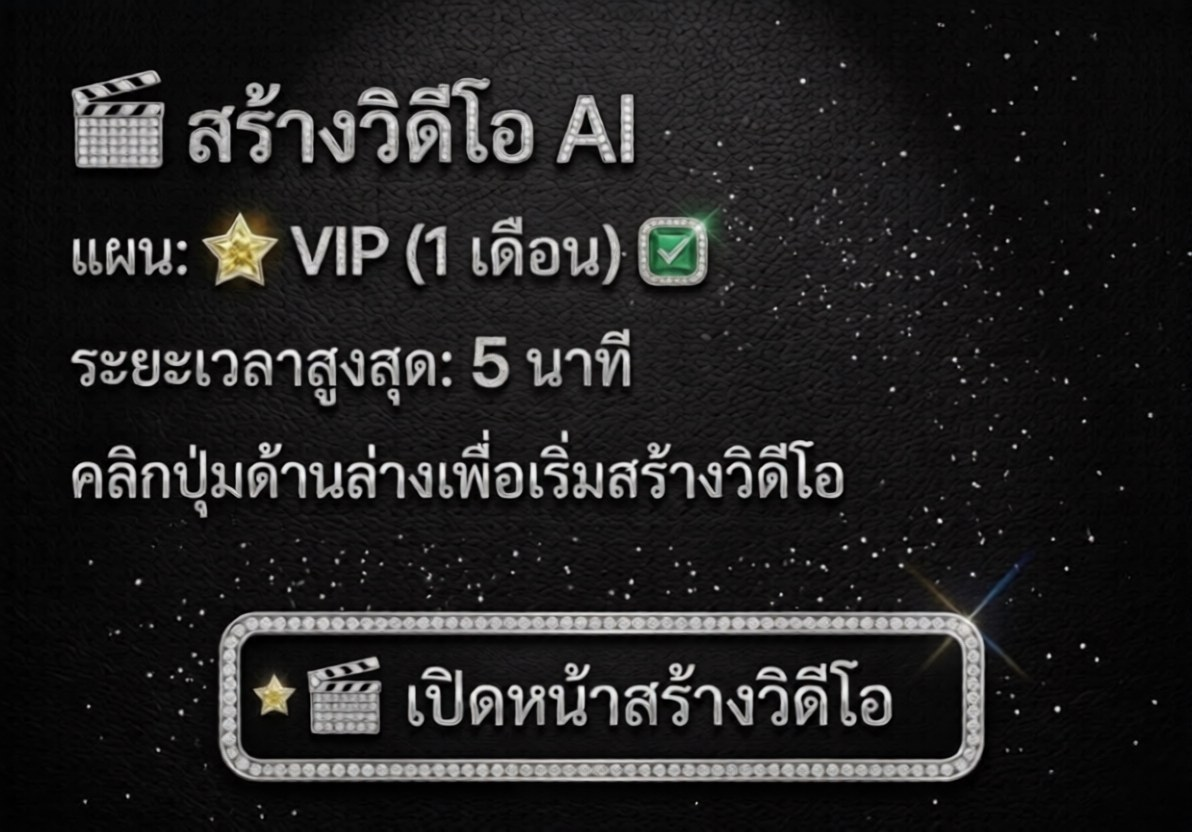
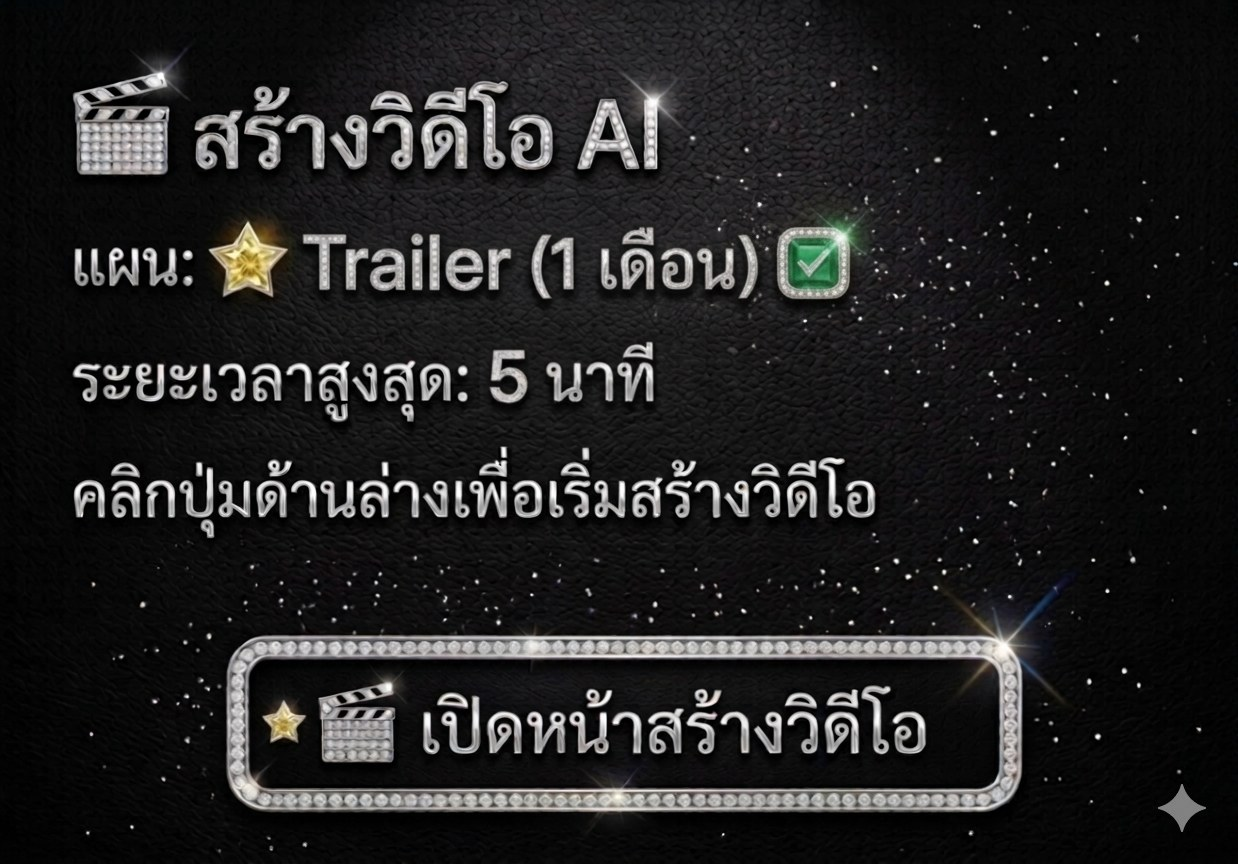
feat: use custom images for all rich messages by plan/state
- richmessage-locked.jpg: video locked screen (l) with subscribe CTA
- richmessage-video-trailer.jpg: correct trailer design (t) - Trailer 1mo / 5min
- richmessage-buy-trailer.jpg: payment info card for trailer (bt)
- richmessage-buy-vip.jpg: payment info card for VIP (bv)
- lockedMessage() now uses hero image instead of text
- handlePostback pay: shows buy image + QR code

diff --git a/server.js b/server.js
@@ -366,7 +366,7 @@ async function handleCreateVideo(event, userId) {
   if (!user || !user.isActive) {
     return client.replyMessage({
       replyToken: event.replyToken,
-      messages: [lockedMessage('สร้างวิดีโอ')],
+      messages: [lockedMessage()],
     });
   }
 
@@ -476,32 +476,28 @@ async function handlePostback(event) {
   const userId = event.source.userId;
 
   if (action === 'pay') {
-    const price = plan === 'trailer' ? '199' : '1,999';
     const planName = plan === 'trailer' ? 'Trailer (1 เดือน)' : 'VIP (1 ปี)';
     const qrUrl = plan === 'trailer'
       ? `${process.env.BASE_URL}/public/qr-trailer.png`
       : `${process.env.BASE_URL}/public/qr-vip.png`;
+    const buyImgUrl = plan === 'trailer'
+      ? `${process.env.BASE_URL}/public/richmessage-buy-trailer.jpg`
+      : `${process.env.BASE_URL}/public/richmessage-buy-vip.jpg`;
 
     return client.replyMessage({
       replyToken: event.replyToken,
       messages: [
         {
           type: 'flex',
-          altText: `ชำระเงิน ${planName}`,
+          altText: `ข้อมูลการชำระเงิน ${planName}`,
           contents: {
             type: 'bubble',
-            body: {
-              type: 'box', layout: 'vertical', spacing: 'md',
-              contents: [
-                { type: 'text', text: '💳 ข้อมูลการชำระเงิน', weight: 'bold', size: 'lg' },
-                { type: 'separator' },
-                { type: 'box', layout: 'horizontal', margin: 'md', contents: [{ type: 'text', text: 'แผน:', size: 'sm', color: '#666666', flex: 2 }, { type: 'text', text: planName, size: 'sm', weight: 'bold', flex: 3 }] },
-                { type: 'box', layout: 'horizontal', contents: [{ type: 'text', text: 'ยอดชำระ:', size: 'sm', color: '#666666', flex: 2 }, { type: 'text', text: `${price} บาท`, size: 'sm', weight: 'bold', color: '#E74C3C', flex: 3 }] },
-                { type: 'box', layout: 'horizontal', contents: [{ type: 'text', text: 'วิธีชำระ:', size: 'sm', color: '#666666', flex: 2 }, { type: 'text', text: 'PromptPay / QR', size: 'sm', flex: 3 }] },
-                { type: 'separator', margin: 'md' },
-                { type: 'text', text: '📌 สแกน QR ด้านล่างเพื่อชำระเงิน', size: 'sm', color: '#666666', wrap: true, margin: 'md' },
-                { type: 'text', text: 'หลังชำระกรุณาส่งสลิปมาในแชทนี้', size: 'sm', color: '#E74C3C', wrap: true },
-              ],
+            hero: {
+              type: 'image',
+              url: buyImgUrl,
+              size: 'full',
+              aspectRatio: '4:3',
+              aspectMode: 'cover',
             },
           },
         },
@@ -603,22 +599,23 @@ function planLabel(plan) {
   return plan === 'vip' ? '⭐ VIP (1 ปี)' : '🎬 Trailer (1 เดือน)';
 }
 
-function lockedMessage(feature) {
+function lockedMessage() {
+  const imgUrl = `${process.env.BASE_URL}/public/richmessage-locked.jpg`;
   return {
     type: 'flex',
-    altText: `${feature}ถูกล็อก — กรุณาสมัครสมาชิก`,
+    altText: 'สร้างวิดีโอถูกล็อก — กรุณาสมัครสมาชิก',
     contents: {
       type: 'bubble',
-      body: {
-        type: 'box', layout: 'vertical', spacing: 'md',
-        contents: [
-          { type: 'text', text: '🔒', size: 'xxl', align: 'center' },
-          { type: 'text', text: `${feature}ถูกล็อก`, weight: 'bold', size: 'lg', align: 'center' },
-          { type: 'text', text: 'สมัครสมาชิกเพื่อปลดล็อกฟีเจอร์นี้', size: 'sm', color: '#666666', align: 'center', wrap: true },
-        ],
+      hero: {
+        type: 'image',
+        url: imgUrl,
+        size: 'full',
+        aspectRatio: '3:2',
+        aspectMode: 'cover',
+        action: { type: 'message', text: 'สมัครสมาชิก' },
       },
       footer: {
-        type: 'box', layout: 'vertical',
+        type: 'box', layout: 'vertical', spacing: 'none', paddingAll: '12px',
         contents: [{
           type: 'button', style: 'primary',
           action: { type: 'message', label: '💎 สมัครสมาชิก', text: 'สมัครสมาชิก' },
